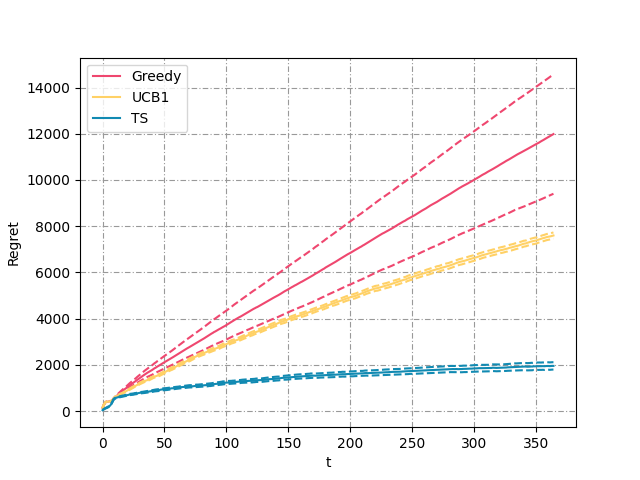
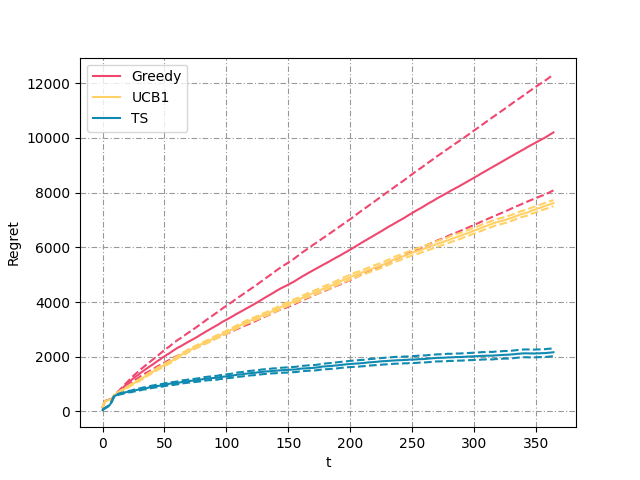
grafico 2 del punto 3 (non ancora funzionante)

diff --git a/experiments/experiment_3.py b/experiments/experiment_3.py
@@ -14,6 +14,13 @@ class Experiment3():
     def __init__(self):
         cm = ConfigManager()
 
+        self.opt_2 = []
+        self.opt_2.append(np.max(np.multiply(cm.conv_rates[0], cm.prices)))  ## per il grafico 2
+        self.opt_2.append(np.max(np.multiply(cm.conv_rates[1], cm.prices)))  ## per il grafico 2
+        self.opt_2.append(np.max(np.multiply(cm.conv_rates[2], cm.prices)))  ## per il grafico 2
+        self.opt_2.append(np.max(np.multiply(cm.conv_rates[3], cm.prices)))  ## per il grafico 2
+        
+
         self.prices = cm.prices # candidates
 
         self.p = cm.aggr_conv_rates()
@@ -32,6 +39,10 @@ class Experiment3():
         self.gr_regret_per_experiment = []
         self.uc_regret_per_experiment = []
         self.ts_regret_per_experiment = []
+
+        self.gr_regret_per_experiment_2 = []
+        self.uc_regret_per_experiment_2 = []
+        self.ts_regret_per_experiment_2 = []
 
         self.gr_comulative_regret_per_experiment = []
         self.uc_comulative_regret_per_experiment = []
@@ -54,11 +65,21 @@ class Experiment3():
             uc_regret = []
             ts_regret = []
 
+            gr_regret_2 = []
+            uc_regret_2 = []
+            ts_regret_2 = []
+
+            observed_class = [0, 0, 0, 0]## per il grafico 2
+
             for t in range(0,self.T):
 
                 gr_daily_reward = 0
                 uc_daily_reward = 0
                 ts_daily_reward = 0
+
+                daily_regret_gr = 0 ## per il grafico 2
+                daily_regret_uc = 0 ## per il grafico 2
+                daily_regret_ts = 0 ## per il grafico 2
 
                 people = pg.generate_people_num(500)
                 daily_opt = self.opt * people
@@ -70,6 +91,11 @@ class Experiment3():
                 uc_buyers = 0
                 ts_buyers = 0
                 for _ in range(people):
+
+                    p_class, p_labels = pg.generate_person() ## per il grafico 2
+                    observed_class[p_class] += 1             ## per il grafico 2
+                    current_opt = self.opt_2[p_class]  ## per il grafico 2
+
                     gr_reward = env.round(gr_pulled_arm)
                     uc_reward = env.round(uc_pulled_arm)
                     ts_reward = env.round(ts_pulled_arm)   
@@ -77,6 +103,10 @@ class Experiment3():
                     gr_daily_reward += gr_reward
                     uc_daily_reward += uc_reward
                     ts_daily_reward += ts_reward
+
+                    daily_regret_gr += (current_opt - gr_reward) ## per il grafico 2
+                    daily_regret_uc += (current_opt - uc_reward) ## per il grafico 2
+                    daily_regret_ts += (current_opt - ts_reward) ## per il grafico 2
 
                     if uc_reward > 0: uc_buyers += 1
                     if ts_reward > 0: ts_buyers += 1
@@ -89,9 +119,17 @@ class Experiment3():
                 uc_regret.append(daily_opt - uc_daily_reward)
                 ts_regret.append(daily_opt - ts_daily_reward)
 
+                gr_regret_2.append(daily_regret_gr) ## per il grafico 2 
+                uc_regret_2.append(daily_regret_uc) ## per il grafico 2
+                ts_regret_2.append(daily_regret_ts) ## per il grafico 2
+
             self.gr_regret_per_experiment.append(gr_regret)
             self.uc_regret_per_experiment.append(uc_regret)
-            self.ts_regret_per_experiment.append(ts_regret)   
+            self.ts_regret_per_experiment.append(ts_regret)
+
+            self.gr_regret_per_experiment_2.append(gr_regret_2) ## per il grafico 2
+            self.uc_regret_per_experiment_2.append(uc_regret_2) ## per il grafico 2
+            self.ts_regret_per_experiment_2.append(ts_regret_2) ## per il grafico 2
 
             self.gr_comulative_regret_per_experiment.append(np.cumsum(gr_regret))
             self.uc_comulative_regret_per_experiment.append(np.cumsum(uc_regret))
@@ -117,3 +155,13 @@ class Experiment3():
         plt.legend(loc=0)
         plt.grid(True, color='0.6', dashes=(5, 2, 1, 2))
         plt.savefig("img/experiments/experiment_3.png")
+
+        plt.figure(1)
+        plt.xlabel("t")
+        plt.ylabel("Regret")
+        plt.plot(np.cumsum(np.mean(self.gr_regret_per_experiment_2, axis=0)), self.colors[0], label="Greedy")
+        plt.plot(np.cumsum(np.mean(self.uc_regret_per_experiment_2, axis=0)), self.colors[1], label="UCB1")
+        plt.plot(np.cumsum(np.mean(self.ts_regret_per_experiment_2, axis=0)), self.colors[3], label="TS")
+        plt.legend(loc=0)
+        plt.grid(True, color='0.6', dashes=(5, 2, 1, 2))
+        plt.savefig("img/experiments/experiment_3_1.png")
